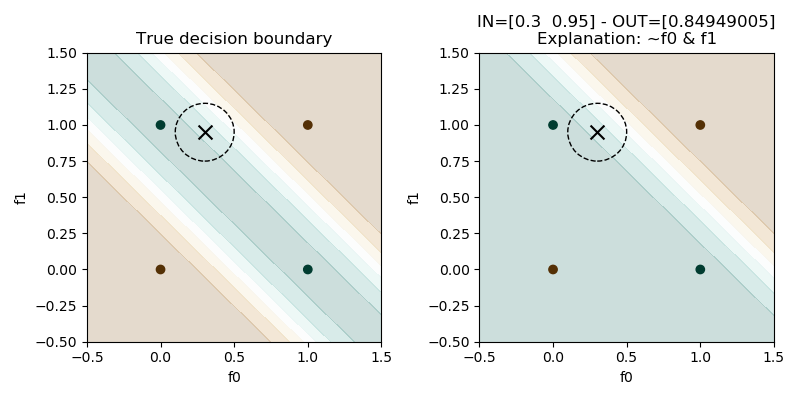
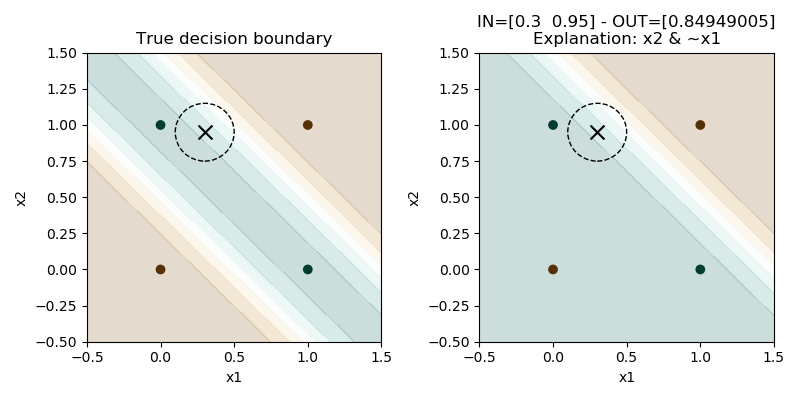
Build coherent local formula of minimal size

diff --git a/deep_logic/fol/relunn.py b/deep_logic/fol/relunn.py
@@ -9,8 +9,8 @@ from ..utils.base import collect_parameters
 from ..utils.relunn import get_reduced_model
 
 
-def generate_local_explanations(model: torch.nn.Module, x_sample: torch.Tensor, k: int = 5,
-                                concept_names: List = None,
+def generate_local_explanations(model: torch.nn.Module, x: torch.Tensor, y: torch.Tensor,
+                                sample_id: int, concept_names: List = None,
                                 device: torch.device = torch.device('cpu')) -> str:
     """
     Generate the FOL formula for a specific input.
@@ -22,90 +22,54 @@ def generate_local_explanations(model: torch.nn.Module, x_sample: torch.Tensor, 
     :param device: cpu or cuda device
     :return: local explanation
     """
-    x_sample_np = x_sample.detach().numpy()
     weights, _ = collect_parameters(model, device)
     weights = weights[0][0]
 
-    # normalize weights
+    # if all the weights are zero, then the explanation is always 'False'
     w_abs = np.abs(weights)
     w_max = np.max(w_abs)
-    if w_max > 0:
-        w_bool = (w_abs / w_max) > 0.5
-
-        # if the explanation is too complex,
-        # reduce the number of symbols to the k most relevant
-        if sum(w_bool) > k:
-            w_sorted = np.argsort(-w_abs)[:k]
-            w_bool = np.zeros(w_bool.shape)
-            w_bool[w_sorted] = 1
-    else:
+    if w_max == 0:
         return 'False'
+
+    # sort features by weight importance
+    sorted_features = np.argsort(-w_abs)
+
+    class_id = y[sample_id]
+    class_mask = (y!=class_id).squeeze()
+    x_opposite = x[class_mask]
+    y_opposite = y[class_mask]
+    x_sample = x[sample_id].unsqueeze(0)
+    y_sample = y[sample_id].unsqueeze(0)
+
+    x_data_sample = torch.cat([x_opposite, x_sample])
+    y_data_sample = torch.cat([y_opposite, y_sample])
 
     # build explanation
     explanation = ''
-    for j, (wj, xij) in enumerate(zip(w_bool, x_sample_np)):
-        if wj:
-            if explanation:
-                explanation += ' & '
+    for fj in sorted_features:
+        xij = x_sample[:, fj]
 
-            if concept_names:
-                term = concept_names[j]
-            else:
-                term = f'feature{j:05}'
+        if explanation:
+            explanation += ' & '
 
-            if xij >= 0.5:
-                explanation += term
-            else:
-                explanation += f'~{term}'
+        term = f'feature{fj:05}'
+        if xij >= 0.5:
+            explanation += term
+        else:
+            explanation += f'~{term}'
+
+        accuracy, _ = test_explanation(explanation, x_data_sample, y_data_sample)
+        if accuracy == 1:
+            break
+
+    if concept_names:
+        explanation = replace_names(explanation, concept_names)
 
     return explanation
 
 
-def combine_local_explanations(model: torch.nn.Module, x: torch.Tensor, y: torch.Tensor,
-                               max_concepts: int = 5, topk_explanations: int = 2, concept_names: List = None,
-                               device: torch.device = torch.device('cpu')) -> Tuple[str, np.array, collections.Counter]:
-    """
-    Generate a global explanation combining local explanations.
-
-    :param model: pytorch model
-    :param x: input samples
-    :param y: target labels
-    :param max_concepts: upper bound to the number of concepts involved in a local explanation (it controls the complexity of the local explanation)
-    :param topk_explanations: number of most common local explanations to combine in a global explanation (it controls the complexity of the global explanation)
-    :param concept_names: list containing the names of the input concepts
-    :param device: cpu or cuda device
-    :return: Global explanation, predictions, and ranking of local explanations
-    """
-    local_explanations = []
-    local_explanations_translated = []
-    # TODO: multi class
-    for xi, yi in zip(x, y):
-        # get reduced model for each sample
-        model_reduced = get_reduced_model(model, xi)
-        output = model_reduced(xi)
-
-        # generate local explanation only if the prediction is correct
-        if output > 0.5 and (output > 0.5) == yi:
-            local_explanation = generate_local_explanations(model_reduced, xi, max_concepts, concept_names=None, device=device)
-            local_explanations.append(local_explanation)
-            local_explanation_translated = generate_local_explanations(model_reduced, xi, max_concepts, concept_names=concept_names, device=device)
-            local_explanations_translated.append(local_explanation_translated)
-
-    counter = collections.Counter(local_explanations)
-    if len(counter) < topk_explanations:
-        topk_explanations = len(counter)
-    most_common_explanations = []
-    for explanation, _ in counter.most_common(topk_explanations):
-        most_common_explanations.append(explanation)
-
-    counter_translated = collections.Counter(local_explanations_translated)
-
-    # the global explanation is the disjunction of local explanations
-    global_explanation = ' | '.join(most_common_explanations)
-    global_explanation_simplified = simplify_logic(global_explanation, 'dnf', force=True)
-
-    # predictions based on FOL formula
-    minterms = str(global_explanation_simplified).split(' | ')
+def test_explanation(explanation: str, x: torch.Tensor, y: torch.Tensor) -> Tuple[float, np.ndarray]:
+    minterms = str(explanation).split(' | ')
     x_bool = x.detach().numpy() > 0.5
     predictions = np.zeros(x.shape[0], dtype=bool)
     for minterm in minterms:
@@ -120,15 +84,72 @@ def combine_local_explanations(model: torch.nn.Module, x: torch.Tensor, y: torch
 
         predictions += local_predictions
 
+    accuracy = sum(predictions == y.detach().numpy().squeeze()) / len(predictions)
+    return accuracy, predictions
+
+
+def replace_names(explanation: str, concept_names: List[str]) -> str:
+    feature_abbreviations = [f'feature{i:05}' for i in range(len(concept_names))]
+    mapping = []
+    for f_abbr, f_name in zip(feature_abbreviations, concept_names):
+        mapping.append((f_abbr, f_name))
+
+    for k, v in mapping:
+        explanation = explanation.replace(k, v)
+
+    return explanation
+
+
+def combine_local_explanations(model: torch.nn.Module, x: torch.Tensor, y: torch.Tensor,
+                               topk_explanations: int = 2, concept_names: List = None,
+                               device: torch.device = torch.device('cpu')) -> Tuple[str, np.array, collections.Counter]:
+    """
+    Generate a global explanation combining local explanations.
+
+    :param model: pytorch model
+    :param x: input samples
+    :param y: target labels
+    :param topk_explanations: number of most common local explanations to combine in a global explanation (it controls the complexity of the global explanation)
+    :param concept_names: list containing the names of the input concepts
+    :param device: cpu or cuda device
+    :return: Global explanation, predictions, and ranking of local explanations
+    """
+    local_explanations = []
+    local_explanations_translated = []
+    # TODO: multi class
+    for sample_id, (xi, yi) in enumerate(zip(x, y)):
+        # get reduced model for each sample
+        model_reduced = get_reduced_model(model, xi)
+        output = model_reduced(xi)
+
+        # generate local explanation only if the prediction is correct
+        if output > 0.5 and (output > 0.5) == yi:
+            local_explanation = generate_local_explanations(model_reduced, x, y, sample_id,
+                                                            concept_names=None, device=device)
+            local_explanations.append(local_explanation)
+            local_explanation_translated = generate_local_explanations(model_reduced, x, y, sample_id,
+                                                                       concept_names=concept_names, device=device)
+            local_explanations_translated.append(local_explanation_translated)
+
+    counter = collections.Counter(local_explanations)
+    if len(counter) < topk_explanations:
+        topk_explanations = len(counter)
+    most_common_explanations = []
+    for explanation, _ in counter.most_common(topk_explanations):
+        most_common_explanations.append(explanation)
+
+    counter_translated = collections.Counter(local_explanations_translated)
+
+    # the global explanation is the disjunction of local explanations
+    global_explanation = ' | '.join(most_common_explanations)
+    global_explanation_simplified = simplify_logic(global_explanation, 'dnf', force=True)
     global_explanation_simplified_str = str(global_explanation_simplified)
 
-    if concept_names:
-        feature_abbreviations = [f'feature{i:05}' for i in range(len(concept_names))]
-        mapping = []
-        for f_abbr, f_name in zip(feature_abbreviations, concept_names):
-            mapping.append((f_abbr, f_name))
+    # predictions based on FOL formula
+    accuracy, predictions = test_explanation(global_explanation_simplified, x, y)
 
-        for k, v in mapping:
-            global_explanation_simplified_str = global_explanation_simplified_str.replace(k, v)
+    # replace concept names
+    if concept_names:
+        global_explanation_simplified_str = replace_names(global_explanation_simplified_str, concept_names)
 
     return global_explanation_simplified_str, predictions, counter_translated

diff --git a/examples/xor_relu.py b/examples/xor_relu.py
@@ -76,7 +76,9 @@ def main():
     xin = torch.tensor([0.3, 0.95])
     model_reduced = get_reduced_model(model, xin)
     output = model_reduced(xin)
-    explanation = generate_local_explanations(model_reduced, xin, 2)
+    x = torch.cat([x_train, xin.unsqueeze(0)])
+    y = torch.cat([y_train, torch.FloatTensor(1).unsqueeze(0)])
+    explanation = generate_local_explanations(model_reduced, x, y, len(x_train), concept_names=['x1', 'x2'])
 
     plt.figure(figsize=[8, 4])
     plt.subplot(121)
@@ -86,8 +88,8 @@ def main():
     c = plt.Circle((xin[0], xin[1]), radius=0.2, edgecolor='k', fill=False, linestyle='--')
     plt.gca().add_artist(c)
     plt.scatter(xnp[:, 0], xnp[:, 1], c=ynp, cmap='BrBG')
-    plt.xlabel('f0')
-    plt.ylabel('f1')
+    plt.xlabel('x1')
+    plt.ylabel('x2')
     plt.xlim([-0.5, 1.5])
     plt.ylim([-0.5, 1.5])
     plt.subplot(122)
@@ -97,18 +99,20 @@ def main():
     c = plt.Circle((xin[0], xin[1]), radius=0.2, edgecolor='k', fill=False, linestyle='--')
     plt.gca().add_artist(c)
     plt.scatter(xnp[:, 0], xnp[:, 1], c=ynp, cmap='BrBG')
-    plt.xlabel('f0')
-    plt.ylabel('f1')
+    plt.xlabel('x1')
+    plt.ylabel('x2')
     plt.xlim([-0.5, 1.5])
     plt.ylim([-0.5, 1.5])
     plt.tight_layout()
     plt.savefig('decision_boundaries.png')
     plt.show()
 
-    global_explanation, predictions = combine_local_explanations(model, x_train, y_train)
+    global_explanation, predictions, counter = combine_local_explanations(model, x_train, y_train,
+                                                                          concept_names=['x1', 'x2'])
 
     accuracy = np.sum(predictions == ynp) / len(ynp)
     print(f'Accuracy of when using the formula {global_explanation}: {accuracy:.4f}')
+    print(counter)
 
     return
 

diff --git a/tests/test_functions.py b/tests/test_functions.py
@@ -15,8 +15,8 @@ class TestTemplateObject(unittest.TestCase):
 
         x = torch.tensor([[0, 1], [1, 1], [1, 0], [0, 0]], dtype=torch.float)
         y = torch.tensor([1, 0, 1, 0], dtype=torch.float).unsqueeze(1)
-        x_test = torch.tensor([[0, 1], [1, 0], [1, 0], [1, 0]], dtype=torch.float)
-        y_test = torch.tensor([1, 1, 1, 1], dtype=torch.float).unsqueeze(1)
+        x_test = torch.tensor([[0, 1], [1, 1], [0, 0], [1, 0], [1, 0], [1, 0]], dtype=torch.float)
+        y_test = torch.tensor([1, 0, 0, 1, 1, 1], dtype=torch.float).unsqueeze(1)
         x_sample = torch.tensor([0, 1], dtype=torch.float)
 
         layers = [
@@ -42,19 +42,13 @@ class TestTemplateObject(unittest.TestCase):
                     loss += 0.0001 * torch.norm(module.weight, 1)
             loss.backward()
             optimizer.step()
-        explanation = combine_local_explanations(model, x_test, y_test)
-        print(explanation)
-
-        model.eval()
-        y_pred = model(x_sample)
 
         model_reduced = get_reduced_model(model, x_sample)
-        y_pred_reduced = model_reduced(x_sample)
-
-        explanation = generate_local_explanations(model_reduced, x_sample, concept_names=['f0', 'f1'])
+        explanation = generate_local_explanations(model_reduced, x, y, 0, concept_names=['f0', 'f1'])
         print(explanation)
 
-        assert y_pred.eq(y_pred_reduced)[0]
+        explanation = combine_local_explanations(model, x_test, y_test)
+        print(explanation)
 
         return
 
